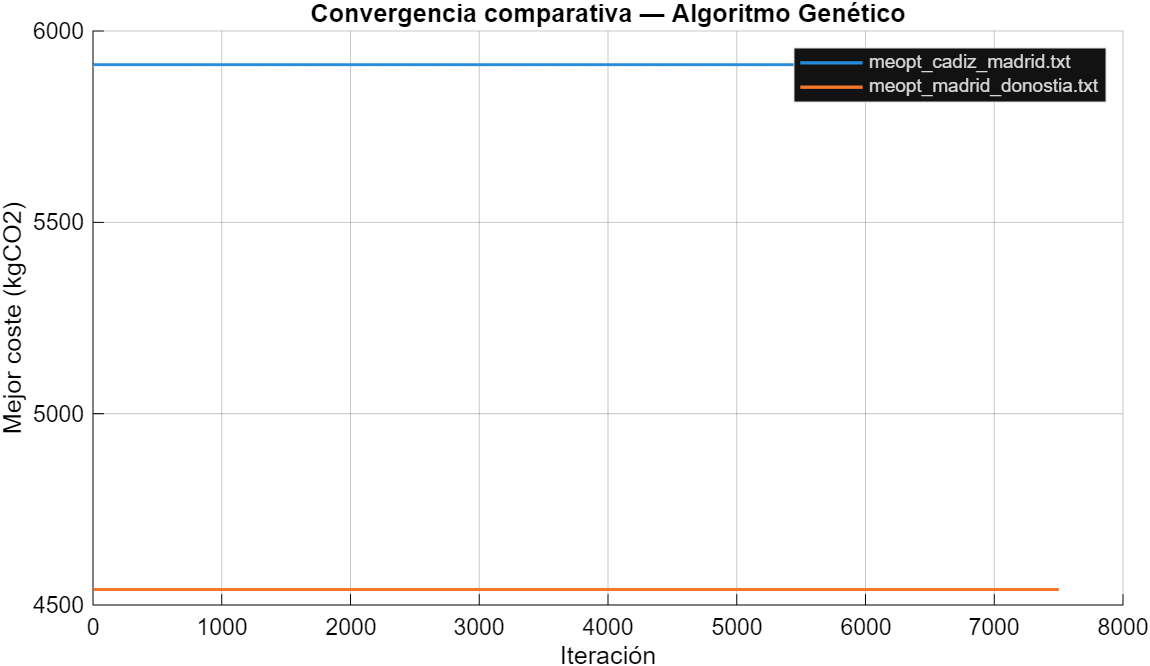
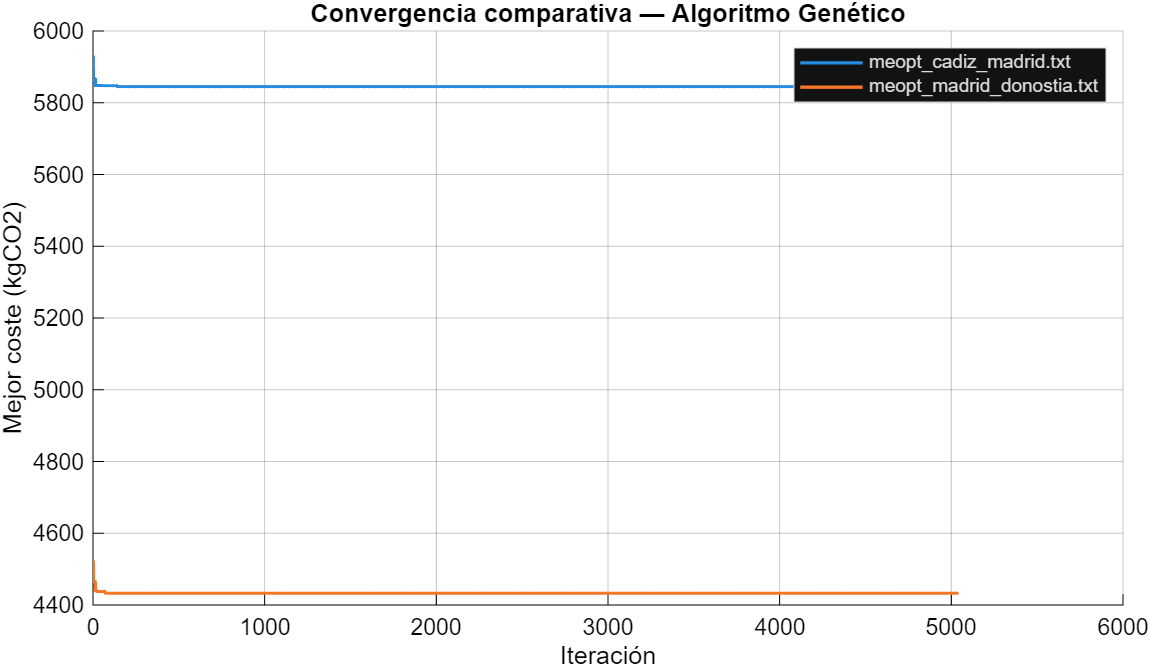
Reparador soluciones

diff --git a/3.  Population Based Metaheuristcs/P3-GAbinTask/solve_bin_ga.m b/3.  Population Based Metaheuristcs/P3-GAbinTask/solve_bin_ga.m
@@ -15,13 +15,14 @@ function [ best_sol , best_cost , log , num_gens ] = solve_bin_ga ( dist , slope
 % log 1 × K Best cost found at each generation (convergence trace)
 % num_gens 1 × 1 Total number of generations completed
 
-
+    t_start = tic;
+    
     n = length ( dist ) ;               % Número de segmentos de la ruta
     SoE_max = params (8) ;              % Máximo nivel de batería para el camión
     CO2_factor = params(12);            % Factor de conversión para pasar de kgCO2 a Kwh
 
-    % Precalculamos el coste en CO2 para cada segmento asumiendo que vamos en combustión
-    segmentsCost = zeros(n, 2);
+    % Precalculamos el coste en CO2 / kwh para cada segmento
+    segmentsCost = zeros(n, 2); % (co2, kwh);(co2, kwh)...
     for i = 1:n
         co2 = segment_kgCO2(dist(i), slope(i), speed(i), time_s(i), accel(i), params);
         segmentsCost(i, 1) = co2;
@@ -31,37 +32,37 @@ function [ best_sol , best_cost , log , num_gens ] = solve_bin_ga ( dist , slope
     
     % --- 2. Initialise population ---
     pop_size = 100;
-    pop = rand(pop_size, n) < 0.05; % Solo un 5% de '1s' (eléctrico) al principio
-
-    best_sol = zeros (1 , n ) ;
-    best_cost = 1/evalInd(best_sol, segmentsCost, SoE_max);
+    pop = rand(pop_size, n) < 0.01; % Solo un 5% de '1s' (eléctrico) al principio
+    
+    % La mejor solución inicial es no usar el motor eléctrico
+    [best_sol, best_fit] = evalInd(zeros (1 , n ), segmentsCost, SoE_max);
+    best_cost = 1/best_fit;
     
     log = [];
     num_gens = 0;
-    t_start = tic;
     
-    num_gens = 0;
+    
     while toc( t_start ) < time_limit - 0.01
         num_gens = num_gens + 1;
 
         % --- 3. Evaluate population
-        fitnesses = evalPop(pop, segmentsCost, SoE_max);
+        [pop, fitnesses] = evalPop(pop, segmentsCost, SoE_max);
         
         
         % Si hemos llegado a una mejor solución que la actual, lo registramos
         [best_fitness, bestIdx] = max(fitnesses);
         if best_cost > 1 / best_fitness
-            best_cost = 1 / best_fitness; % Update the best cost based on the best fitness
-            best_sol = pop(bestIdx, :);    % Store the best solution found
+            best_cost = 1 / best_fitness;
+            best_sol = pop(bestIdx, :);
         end
         
 
         % --- 4. Selection
-        k = round(length(fitnesses)/6); % Tamaño de los subgrupos a seleccionar en el torneo
+        k = round(length(fitnesses)*0.3); % Tamaño de los subgrupos a seleccionar en el torneo
         parentsIdxs = tournament(fitnesses, k);
 
         % --- 5. Crossover
-        childs = crossover(pop, parentsIdxs);
+        childs = crossover2points(pop, parentsIdxs);
 
         % --- 6. Mutation
         
@@ -69,14 +70,7 @@ function [ best_sol , best_cost , log , num_gens ] = solve_bin_ga ( dist , slope
         childs = mutate(childs, pMut);
 
         % --- 7. Elitism :
-        pop = childs; % La nueva generación sustituye a la antigua.
-        
-        % Introducimos nuestra mejor solución (si lo sigue siendo), para que la población no desmejore
-        random_child_idx = 1;
-        random_child_cost = 1/evalInd(pop(random_child_idx,:), segmentsCost, SoE_max);
-        if best_cost < random_child_cost
-            pop(random_child_idx, :) = best_sol; % Machacamos al indivíduo
-        end
+        pop = combineGenerations(pop, childs, fitnesses, segmentsCost, SoE_max);
 
         
         % --- 8. Update best ---
@@ -94,15 +88,25 @@ end
 
 
 
-
-function fitness = evalInd(ind, segmentsCost, SoE_max)
+%{
+Evalúa (cuanto mayor, mejor) un indivíduo, asignando un valor inversamente 
+proporcional al sumatorio de los costes en CO2/kwh para cada tramo. 
+Además los corrige, de tal forma que no admite individuos irreales 
+(que rompan la restricción de la batería). Si se acaba la batería, pasa a combustión. 
+La nueva población de indivíduos corregidos es devuelta como primer parámetro 
+'new_pop', y el vector fila 'fitnesses', como segúndo parámetro, consistente 
+en el conjunto de la evaluación individual de cada elemento de 'pop'.
+%}
+function [new_ind, fitness] = evalInd(ind, segmentsCost, SoE_max)
 
         kgCO2 = 0;       % Acumilador de Co2, inicialmente no ha emitido CO2
-        SoE = SoE_max; % Kwh de batería, inicilmente la tiene al máximo
+        SoE = SoE_max;   % Kwh de batería, inicilmente la tiene al máximo
         
-        for i = 1:length(ind)
+        new_ind = ind;
 
-            if ind(i) == 1 % Está en eléctrico
+        for i = 1:length(new_ind)
+
+            if new_ind(i) == 1 % Está en eléctrico
                 
                 % Actualizamos el valor de la batería
                 SoE = SoE - segmentsCost(i,2); 
@@ -113,10 +117,10 @@ function fitness = evalInd(ind, segmentsCost, SoE_max)
                 kgCO2 = kgCO2 + segmentsCost(i,1);
             end
 
-            % Si inclumple la restricción de la batería, descartamos y pasamos al siguiente indivíduo
+            % Si inclumple la restricción de la batería, lo forzamos a cambiar a combustión
             if SoE < 0 
-                kgCO2 = inf;
-                break;
+                SoE = 0;
+                new_ind(i:end) = 0; % Pasamos a combustión 
             end
 
         end
@@ -124,21 +128,37 @@ function fitness = evalInd(ind, segmentsCost, SoE_max)
         fitness = 1/kgCO2; % Registramos la evaluación del indivíduo
 end
 
-function fitnesses = evalPop(pop, segmentsCost, SoE_max)
+
+
+
+%{
+Evalúa (cuanto mayor, mejor) una población indivíduo a indivíduo, asignando a 
+cada uno un valor inversamente proporcional al sumatorio de los costes en CO2/kwh
+para cada tramo. Además de evaluar estos indivíduos, los corrige,
+de tal forma que no admite individuos irreales (que rompan la restricción
+de la batería).  Si se acaba la batería, pasa a combustión.
+La nueva población de indivíduos corregidos es devuelta
+como primer parámetro 'new_pop', y el vector fila 'fitnesses', como segúndo
+parámetro, consistente en el conjunto de la evaluación individual de cada
+elemento de 'pop'.
+%}
+function [new_pop, fitnesses] = evalPop(pop, segmentsCost, SoE_max)
     % pop: Matriz de (pop_size x N) con 0s y 1s (1 = Eléctrico, 0 = Combustión)
     % segmentsCosts: Vector columna (N x 2) con el coste de CO2 y Kwh de cada tramo, de la forma (CO2, KWH)
 
     pop_size = height(pop);
 
     fitnesses = zeros(1, pop_size);
+    new_pop = pop;
 
     % Recorremos la población para evaluar todos los indivíduos
-    for j = 1:pop_size
+    for i = 1:pop_size
         
-        fitnesses(j) = evalInd(pop(j, :), segmentsCost, SoE_max);
+        [new_pop(i, :), fitnesses(i)] = evalInd(pop(i, :), segmentsCost, SoE_max);
     
     end
 end
+
 
 
 function parentsIdxs = tournament(fitnesses, k)
@@ -164,9 +184,12 @@ function parentsIdxs = tournament(fitnesses, k)
 end
 
 
-function childs = crossover(pop, parentsIdxs)
+
+function childs = crossover2points(pop, parentsIdxs)
+
         
-    childs = zeros(size(pop));
+    [pop_size, n] = size(pop);
+    childs = zeros(pop_size, n);
     
     % Cruzamos cada pareja del bucle, lo recorremos de 2 en 2
     for i = 2:2:length(parentsIdxs)
@@ -174,12 +197,12 @@ function childs = crossover(pop, parentsIdxs)
         father = pop(parentsIdxs(i-1), :);
         mother = pop(parentsIdxs(i), :);
 
-        % Realizar el cruce de los padres
-        crossPoint = randi([1, length(father)-1]); % Seleccionar un punto de cruce
+        % Seleccionamos 2 puntos de cruce completamente aleatorios en cada cruce
+        cpts = sort(randperm(n, 2));
 
         % Creamos los 2 hijos
-        childs(i-1, :) = [father(1:crossPoint), mother(crossPoint+1:end)]; % Más parecido al padre
-        childs(i, :)   = [mother(1:crossPoint), father(crossPoint+1:end)]; % Más parecido a la madre
+        childs(i-1, :) = [father(1:cpts(1)), mother(cpts(1)+1:cpts(2)), father(cpts(2)+1:end)]; % Más parecido al padre
+        childs(i, :)   = [mother(1:cpts(1)), father(cpts(1)+1:cpts(2)), mother(cpts(2)+1:end)]; % Más parecido a la madre
     end
 
 end
@@ -196,3 +219,25 @@ function mutated_childs = mutate(childs, pMut)
     
 end
 
+function elite = combineGenerations(pop, childs, popFitness, segmentsCost, SoE_max)
+    elite = childs; % La generación de los hijos toma presencia
+
+    parentsAmount = round(size(elite, 1) * 0.3); % Cantidad de padres en la nueva poblacion
+
+    % Seleccionamos los mejores padres a mezclar
+    [parentsFitnesses, parentsIdx] = maxk(popFitness, parentsAmount); 
+
+    % Los introducimos al principio de la población, siempre y cuando se mejore cada indivíduo
+    for i = 1:parentsAmount
+        parent = pop(parentsIdx(i), :);
+        parentFitness = parentsFitnesses(i);
+
+        [~, childFitness ] = evalInd(elite(i,:), segmentsCost, SoE_max);
+
+        if (parentFitness > childFitness)
+            elite(i,:) = parent;
+        end
+    end
+
+    
+end
